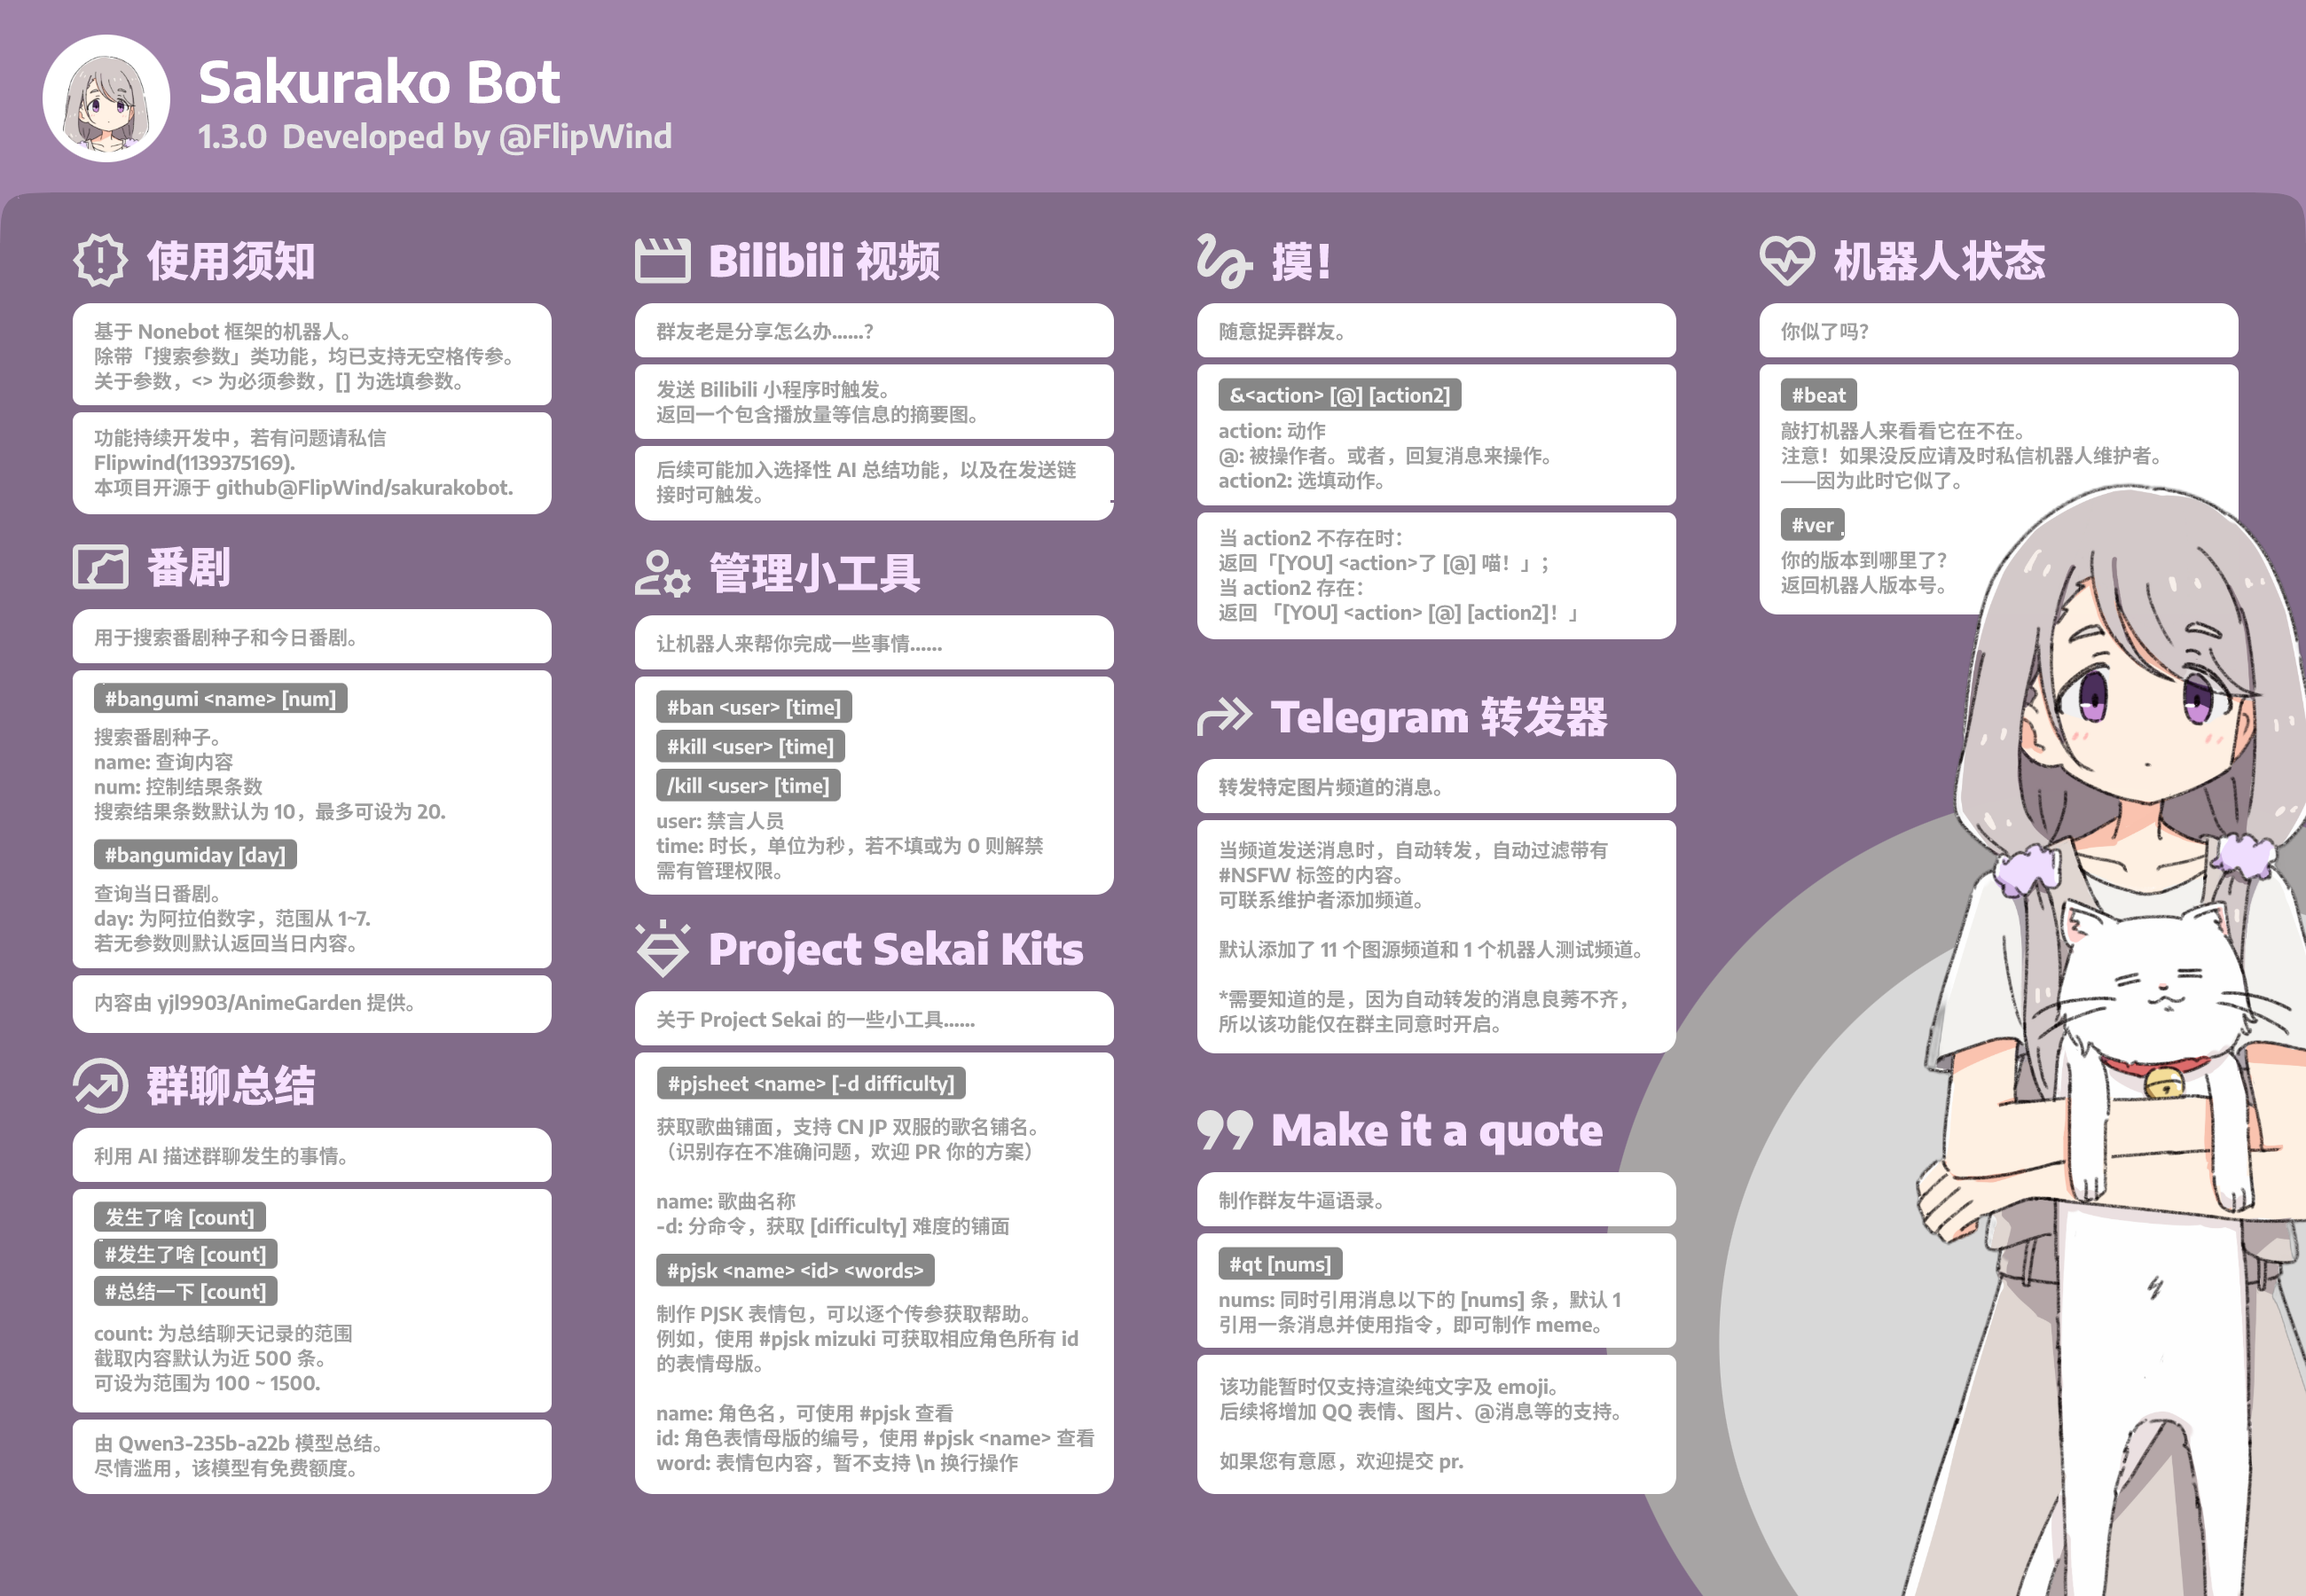
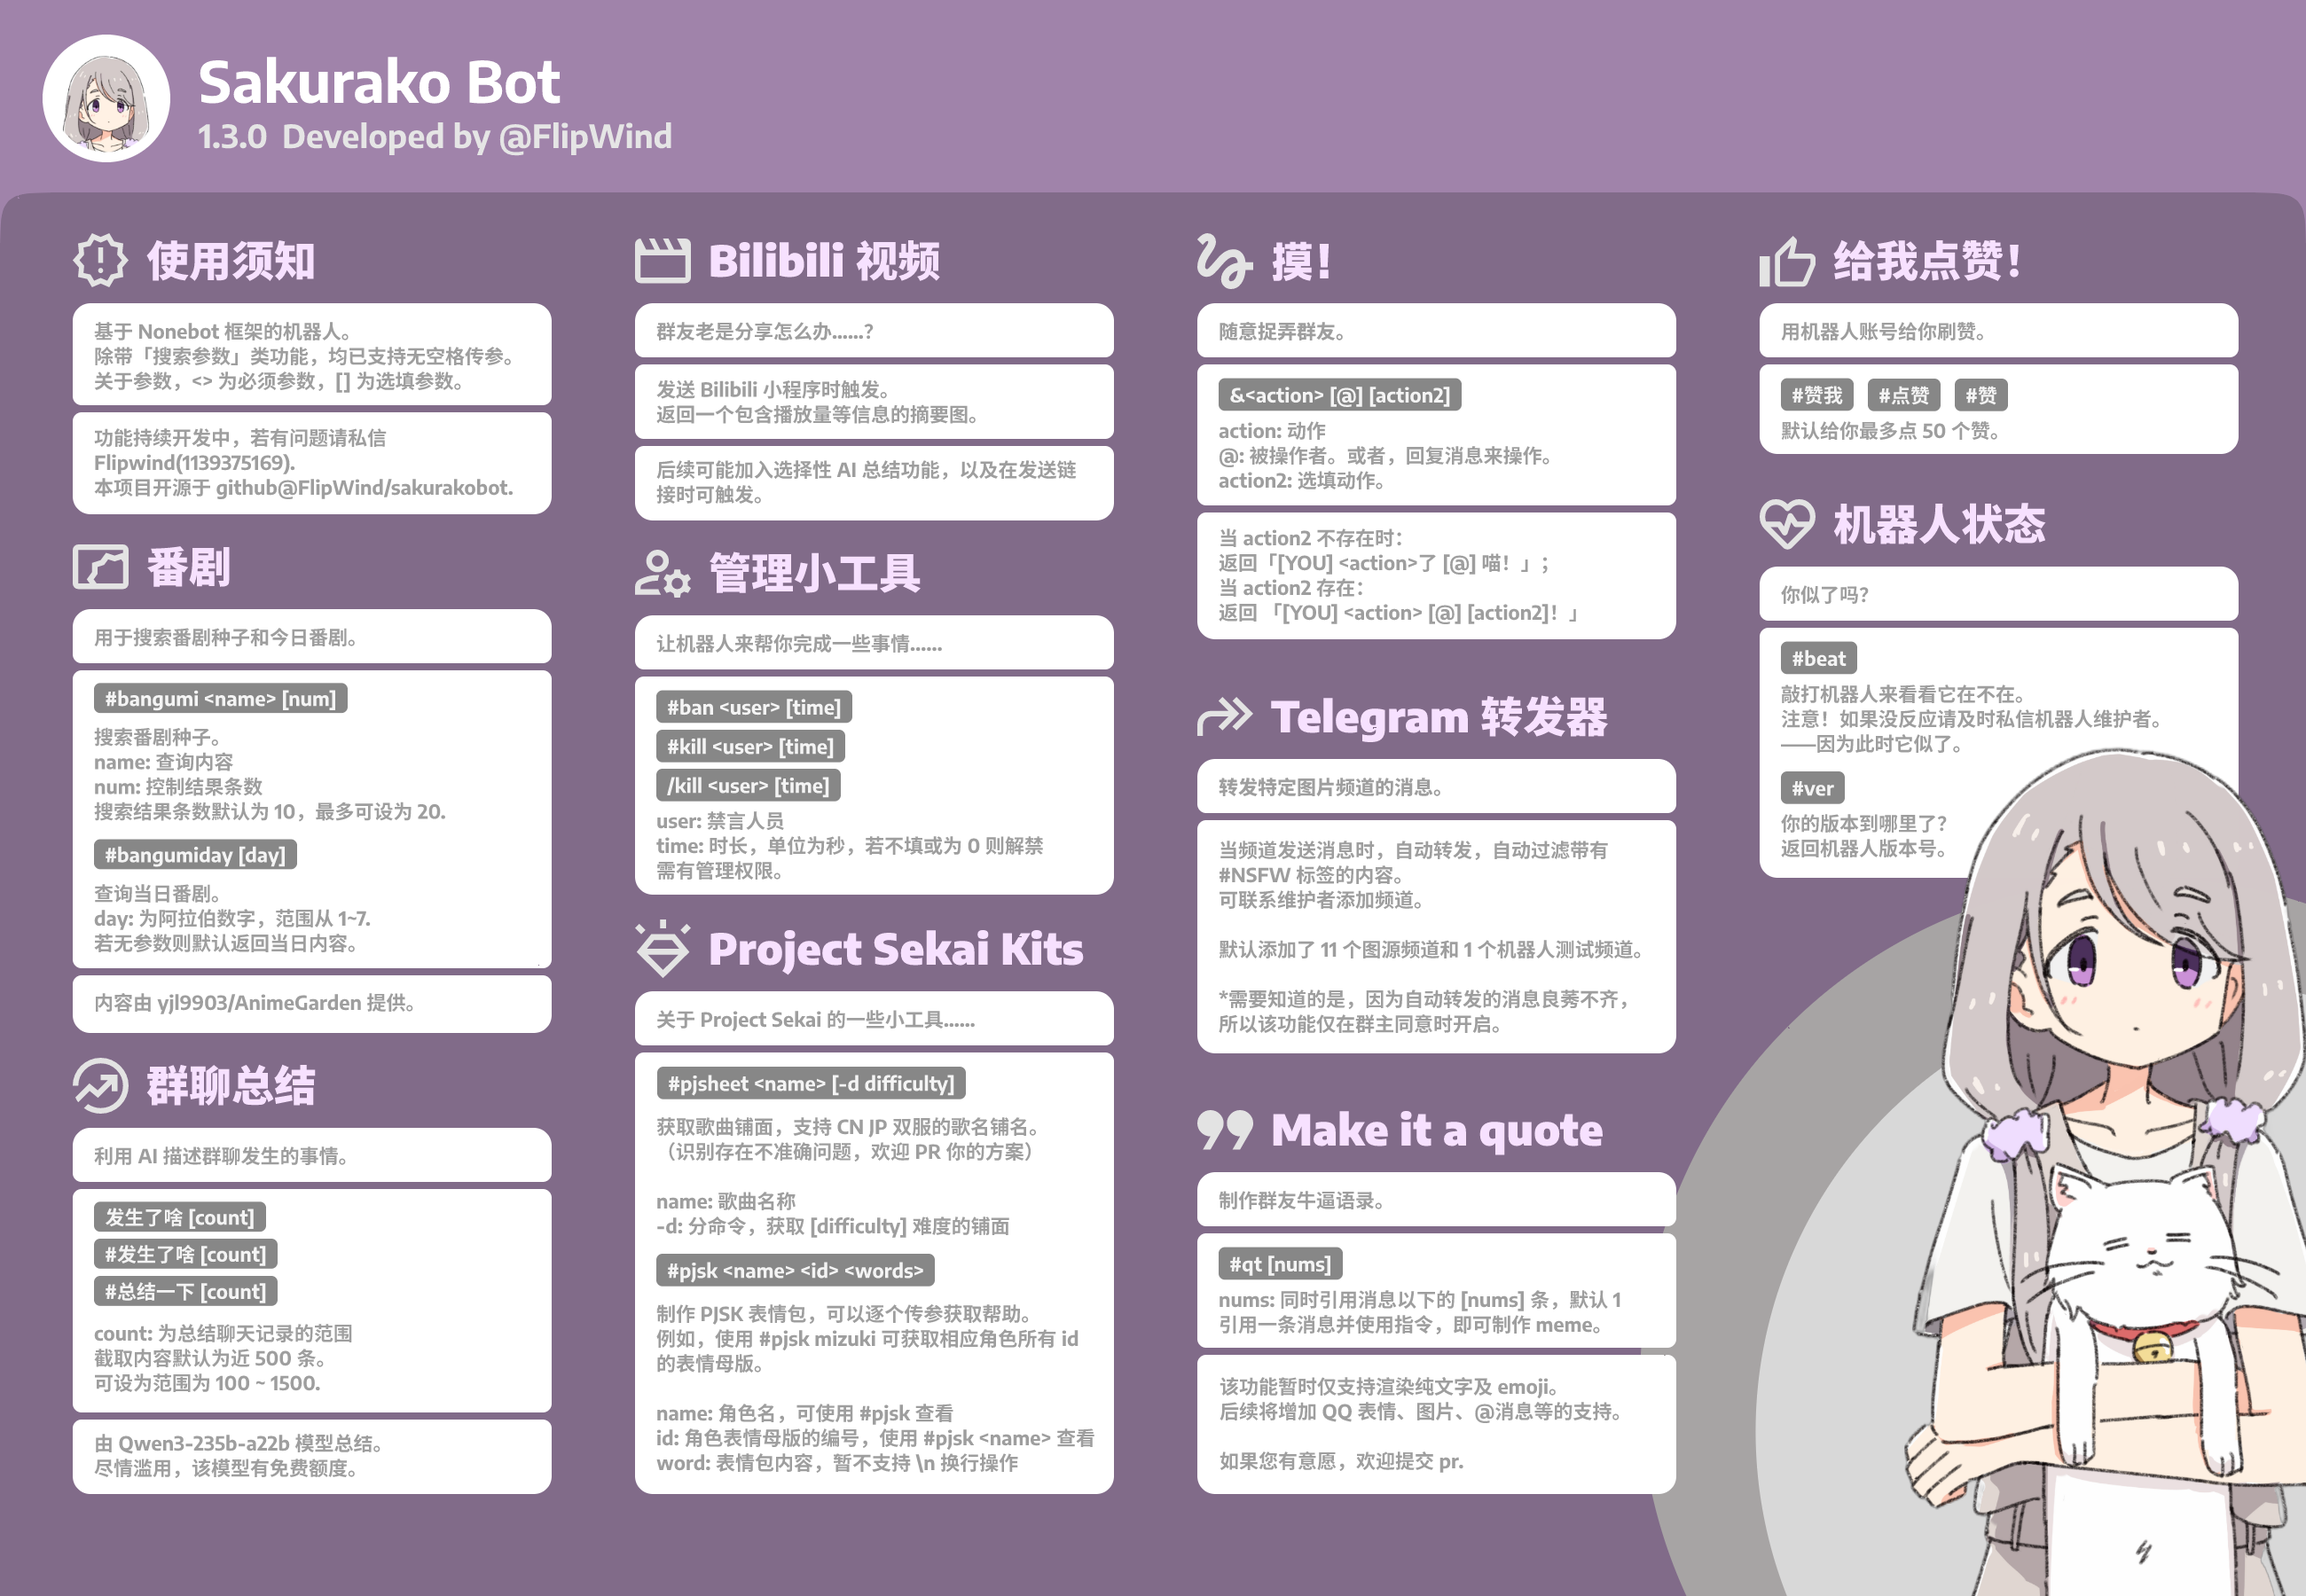
feat: send likes to user

Changed region(s): [[0.6854, 0.1556, 1.0, 1.0], [0.7165, 0.9644, 0.7788, 1.0]]

diff --git a/src/plugins/homepage_like/main.py b/src/plugins/homepage_like/main.py
@@ -1,0 +1,19 @@
+from ..utils import *
+
+like = on_alconna(Alconna("#点赞"), aliases=("#赞我", "#赞"))
+
+@like.handle()
+async def _(bot: Bot, event: GroupMessageEvent):
+    user_id = event.user_id
+    count = 0
+    
+    try:
+        for i in range(5):
+            await bot.send_like(user_id=user_id, times=10)
+            count += 10
+    except Exception:
+        pass
+    
+    if count == 0:
+        await like.finish("咱今天点不了更多的赞了喵。")
+    await like.finish(f"哼哼，本喵刚刚已经给你点了 {count} 个赞喵！")

diff --git a/src/plugins/homepage_like/__init__.py b/src/plugins/homepage_like/__init__.py
@@ -1,0 +1,9 @@
+from nonebot.plugin import PluginMetadata
+
+__plugin_meta__ = PluginMetadata(
+    name="homepage_like",
+    description="",
+    usage="",
+)
+
+from . import main as main
